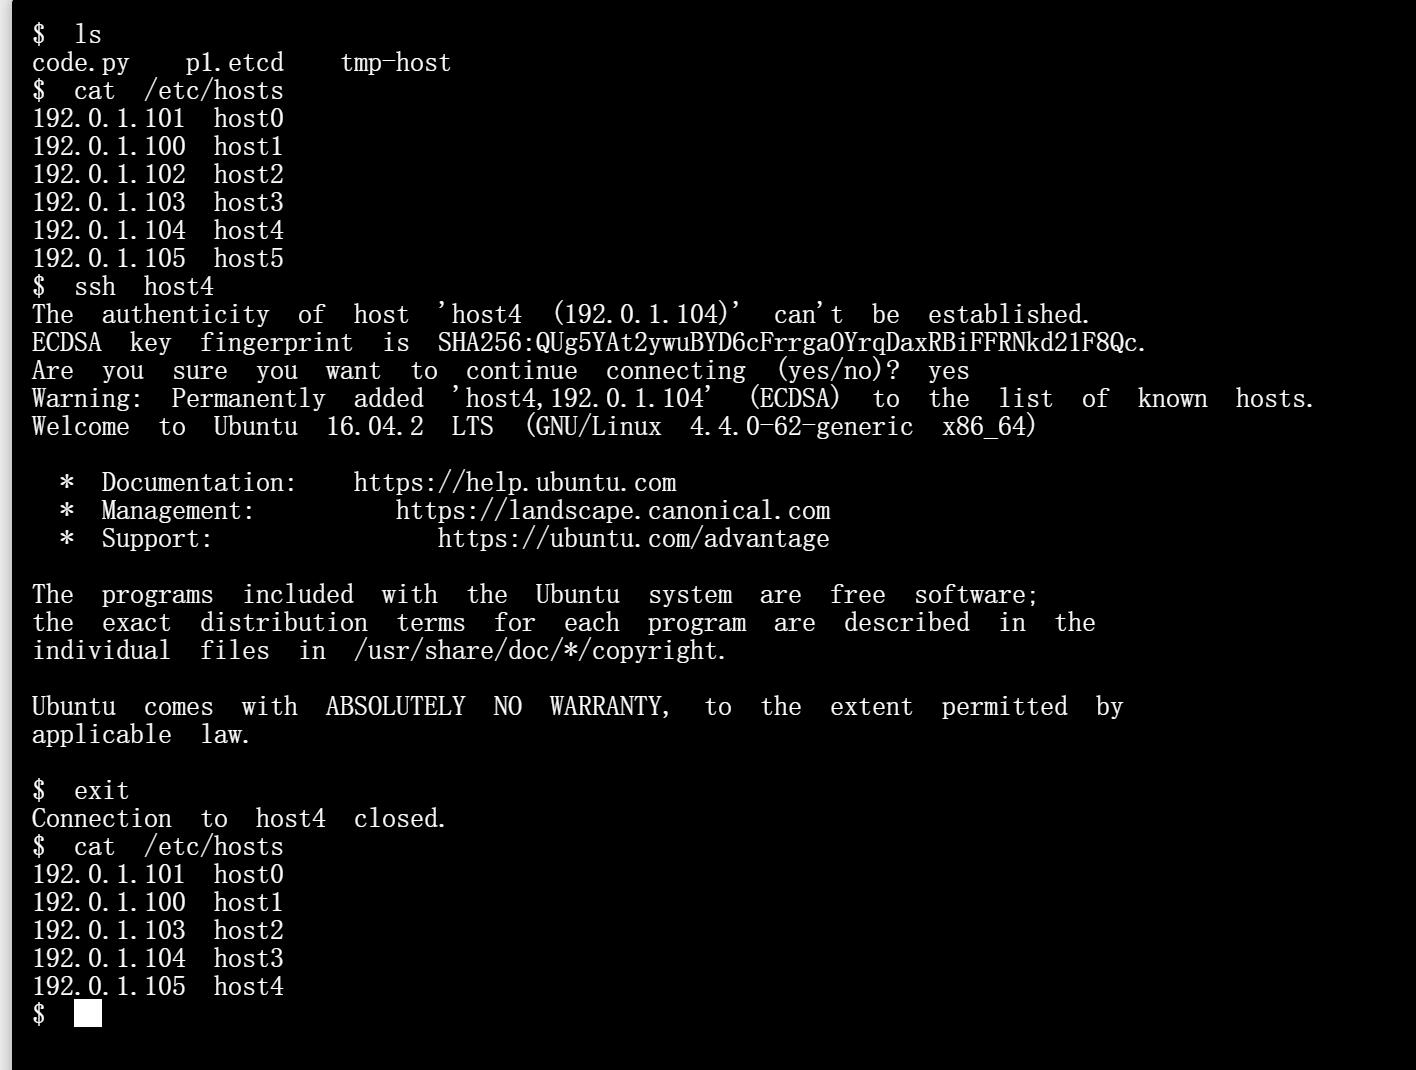
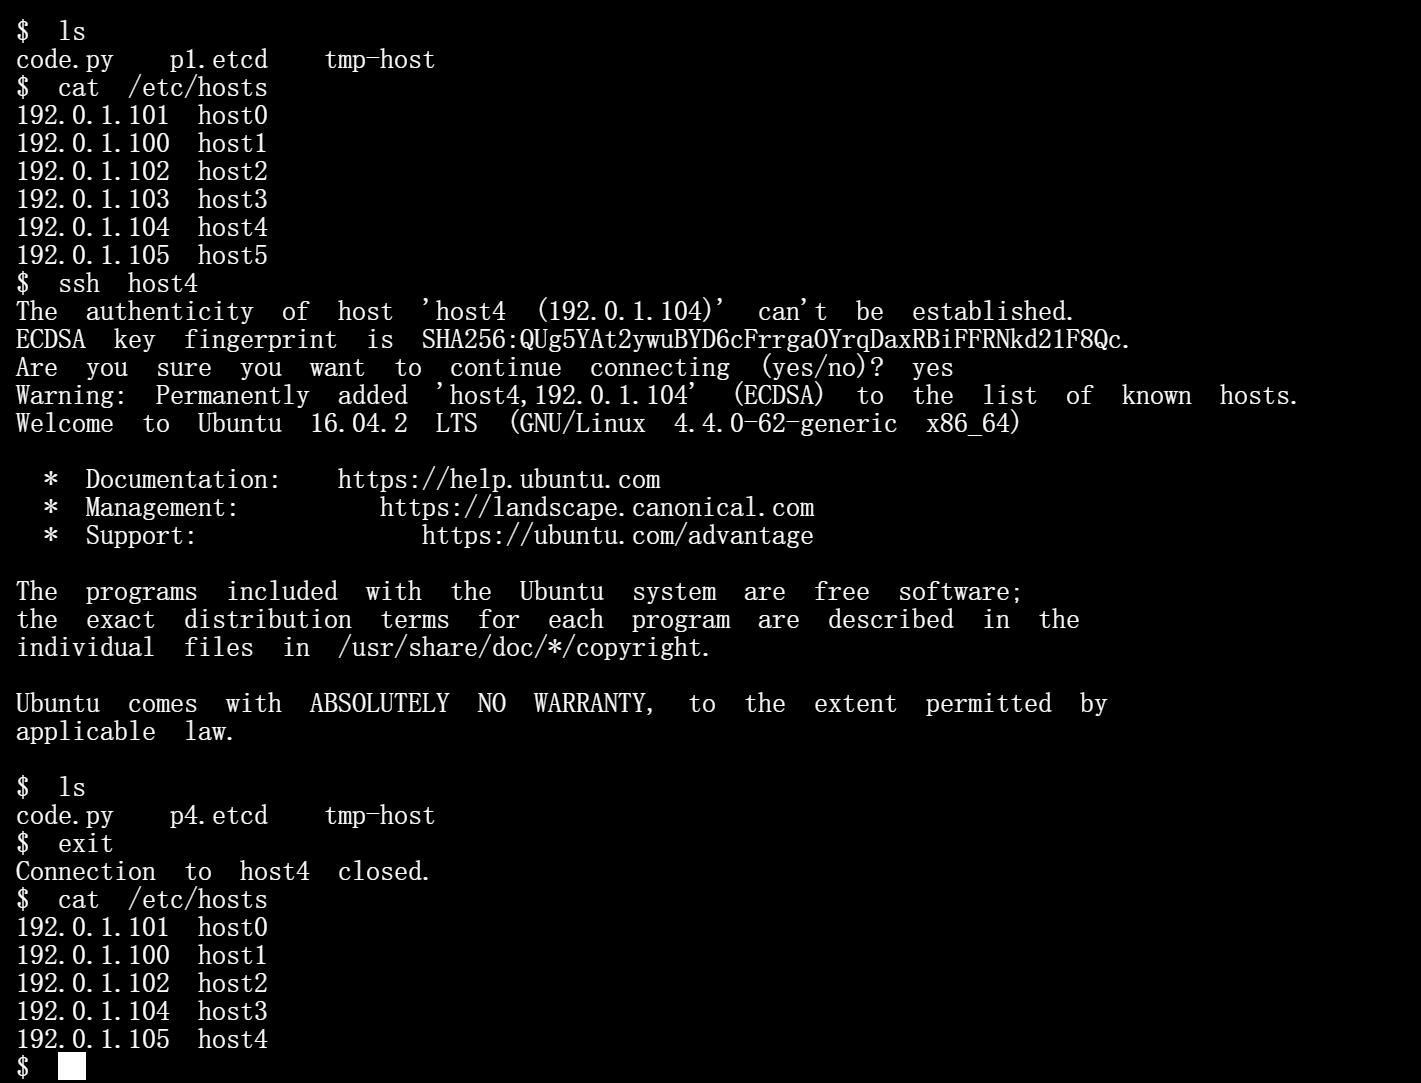
commit

diff --git a/homework6/README.md b/homework6/README.md
@@ -207,17 +207,17 @@ def main():
 					args = ['jupyter', 'notebook', '--NotebookApp.token=', '--ip=0.0.0.0', '--port=8888']
 					subprocess.Popen(args)
 				# 更新自己leader的alive标记	
-				os.system('etcdctl set /leader/' + ip + ' ' + "1 --ttl 5")
+				os.system('etcdctl set /leader/' + ip + ' ' + "1 --ttl 30")
 				#leader负责将host表拷贝到联合文件系统中，方便外面查看
 				os.system("sudo cp tmp-host /mnt/hosts")
 				
 			elif data['state'] == 'StateFollower':
 				# 更新自己作为follwer的alive标记
-				os.system('etcdctl set /follower/' + ip + ' ' + "1 --ttl 5")
+				os.system('etcdctl set /follower/' + ip + ' ' + "1 --ttl 30")
 		#更新完标记后，每个主机计算最新的host表
 		update_host(n)
-		#守护进程的频率为1s一次
-		time.sleep(1)
+		#守护进程的频率为10s一次
+		time.sleep(10)
 
 
 if __name__ == '__main__':
@@ -230,7 +230,7 @@ if __name__ == '__main__':
 由于etcd能够保证kv值一致，所以所有主机计算出来的host-ip表也是一致的<br>
 * alive更新<br>
 因为kv有ttl，所以一旦主机死了，kv就会失效<br>
-守护程序每1s更新一次alive，而ttl设置为5s，所以只要主机健康，就不会掉线<br>
+守护程序每10s更新一次alive，而ttl设置为30s，所以只要主机健康，就不会掉线<br>
 * 如何达成ssh的免密码访问<br>
 原理：ssh服务通过本地的authorized_keys文件确定信任的主机，A主机将rsa加密中的公钥存在B主机的authorized_keys文件中，A登入B时候，B发送一个通过公钥加密的随机字符串，A返回利用私钥解密的字符串，B验证字符串正确，然后放行A。<br>
 关键：只要authorized_keys中有来访者的公钥就可以免密登入<br>
@@ -243,17 +243,20 @@ if __name__ == '__main__':
 nohup configurable-http-proxy --default-target=http://192.0.1.100:8888 --ip=172.16.6.153 --port=8888
 ```
 ### 容错验证
-* 通过http://162.105.174.33:8888/terminals/1登入jupter界面,可以看到host表中已经维护好
+* 登入jupter界面,可以看到host表中已经维护好<br>
 ![pic6](https://github.com/magicfisk/mesos_learning/raw/master/homework6/init.jpg)<br>
-* 利用ssh登入其他主机，可以看到只用yes，不用密码
+* 利用ssh登入其他主机，可以看到只用yes，不用密码<br>
 ![pic7](https://github.com/magicfisk/mesos_learning/raw/master/homework6/ssh.jpg)<br>
-* 这时，我们将docker中一个容器stop掉，经过5s的等待，重新查看host表
+* 这时，我们将docker中一个容器stop掉（103），经过30s的等待，重新查看host表<br>
 ![pic8](https://github.com/magicfisk/mesos_learning/raw/master/homework6/host.jpg)<br>
-* 我们发现host表更新了，少了我们stop的主机
-* 我们把leader给stop掉
+* 我们发现host表更新了，少了我们stop的主机<br>
+* 我们把leader给stop掉<br>
 ![pic9](https://github.com/magicfisk/mesos_learning/raw/master/homework6/mnt.jpg)<br>
-在分布式文件系统中检查到105成为了新的leader，我们到105所在的机器下，进行http转发
+在分布式文件系统中检查到100成为了新的leader，我们到100所在的机器下，进行http转发
 ```
-configurable-http-proxy --default-target=http://192.0.1.105:8888 --ip=172.16.6.249 --port=8888
+configurable-http-proxy --default-target=http://192.0.1.100:8888 --ip=172.16.6.153 --port=8888
 ```
-* 登入jupter界面
+* 登入jupter界面,可以看到我们的新leader很好的在工作
+![pic10](https://github.com/magicfisk/mesos_learning/raw/master/homework6/new-leader.jpg)<br>
+* ssh也照样正常工作
+![pic11](https://github.com/magicfisk/mesos_learning/raw/master/homework6/ssh2.jpg)<br>
